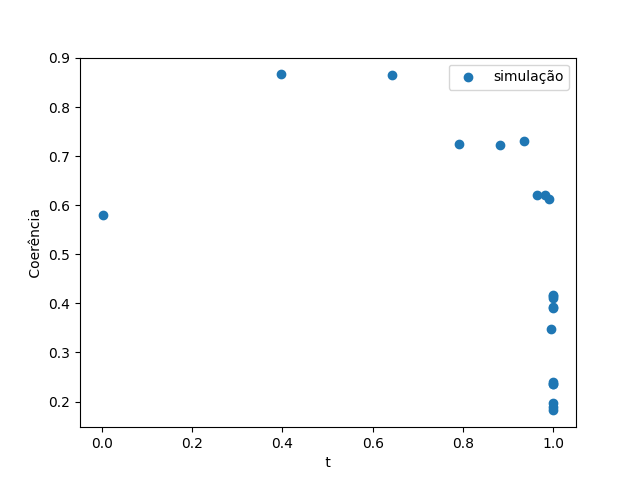
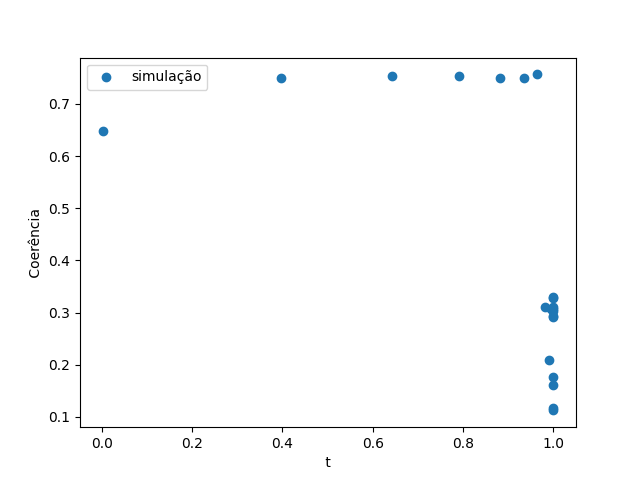
treino interrompivel agora

diff --git a/src/simulation_with_save.py b/src/simulation_with_save.py
@@ -317,14 +317,28 @@ class Simulate(object):
         self.plot_theoric_map(theta, phi)
         self.plots(self.list_p, self.coerencias_L)
     
-    def run_calcs_noMarkov(self, save, theta, phi):#, gamma=None):
+    def run_calcs_noMarkov(self, save, theta, phi, continuous_coh):#, gamma=None):
         #coerencias_R = []
-        coerencias_L = []
+        caminho = f'data/noMarkov/{self.map_name}/coerencia_L_e_R.pkl'
+        if continuous_coh:
+            try:
+                coerencias_L = self.read_data(caminho)[0]
+                if len(coerencias_L) < len(self.list_p):
+                    print(len(self.list_p))
+                    print(len(coerencias_L))
+                    faltam = len(self.list_p)-len(coerencias_L)
+                    print('ainda faltam',faltam)
+                    self.list_p = self.list_p[len(coerencias_L):]
+                    print(len(self.list_p))
+            except:
+                coerencias_L =[]    
+        else:
+            coerencias_L =[]
+        # sys.exit()
         print('list_t = ', self.list_p)
         x = self.list_p
         #self.list_p = get_list_p_noMarkov(self.list_p,'Bellomo')
         self.list_p = get_list_p_noMarkov(self.list_p,'Ana')
-        print('list_t = ', self.list_p)
         self.list_p = [i/max(self.list_p) for i in self.list_p]
         print('list_t = ', self.list_p)
         pretrain = True
@@ -362,11 +376,11 @@ class Simulate(object):
             rho = self.tomograph()
             #print(rho)
             self.coerencias_L, self.coerencias_R = self.results(rho, self.coerencias_R, coerencias_L)
-        mylist = [self.coerencias_L, self.coerencias_R]
-        if save:
-            with open(f'data/noMarkov/{self.map_name}/coerencia_L_e_R.pkl', 'wb') as f:
-                pickle.dump(mylist, f)
-        # self.plot_theoric_map(theta, phi)
+            mylist = [self.coerencias_L, self.coerencias_R]
+            if save:
+                with open(caminho, 'wb') as f:
+                    pickle.dump(mylist, f)
+        self.plot_theoric_map(theta, phi)
         self.plots_markov(self.list_p, self.coerencias_L, theta, phi)
 
     def rho_from_qc(self, best_params):
@@ -483,7 +497,7 @@ def main():
     d_rho_A = 2
     theta = pi/2
     phi = 0
-    list_p = np.linspace(0.1,1000,50)
+    list_p = np.linspace(0.1,1000,21)
     markovianity = False
     saving = True
     epochs = 120
@@ -496,7 +510,7 @@ def main():
     #print(rho)
     #sys.exit()
     if not markovianity:
-        S.run_calcs_noMarkov(saving, theta, phi)
+        S.run_calcs_noMarkov(saving, theta, phi, True)
     if markovianity:
         S.run_calcs(saving, theta, phi)
     

diff --git a/graficos_markovianos.py b/graficos_markovianos.py
@@ -5,16 +5,16 @@ from src.theoric_channels import *
 a = TheoricMaps()
 
 lamb = 0.01
-list_1 = np.linspace(0.01,1,50)
-list_2 = np.linspace(0.01,1000,50)
+list_1 = np.linspace(0.01,1,21)
+list_2 = np.linspace(0.01,1000,21)
 
 
 list_of_maps = ['bf','pf','l']
 list_of_maps = ['l']
 list_of_maps = ['ad','pd','adg','bf','bpf','d','l','hw']
 list_of_maps = ['ad','pd','adg','bf','pf','bpf','d']
-list_of_maps = ['ad']
 list_of_maps = ['pd','adg','bf','pf','bpf','d','l','hw']
+list_of_maps = ['ad']
 th = pi/2
 ph = 0
 for map in list_of_maps:
